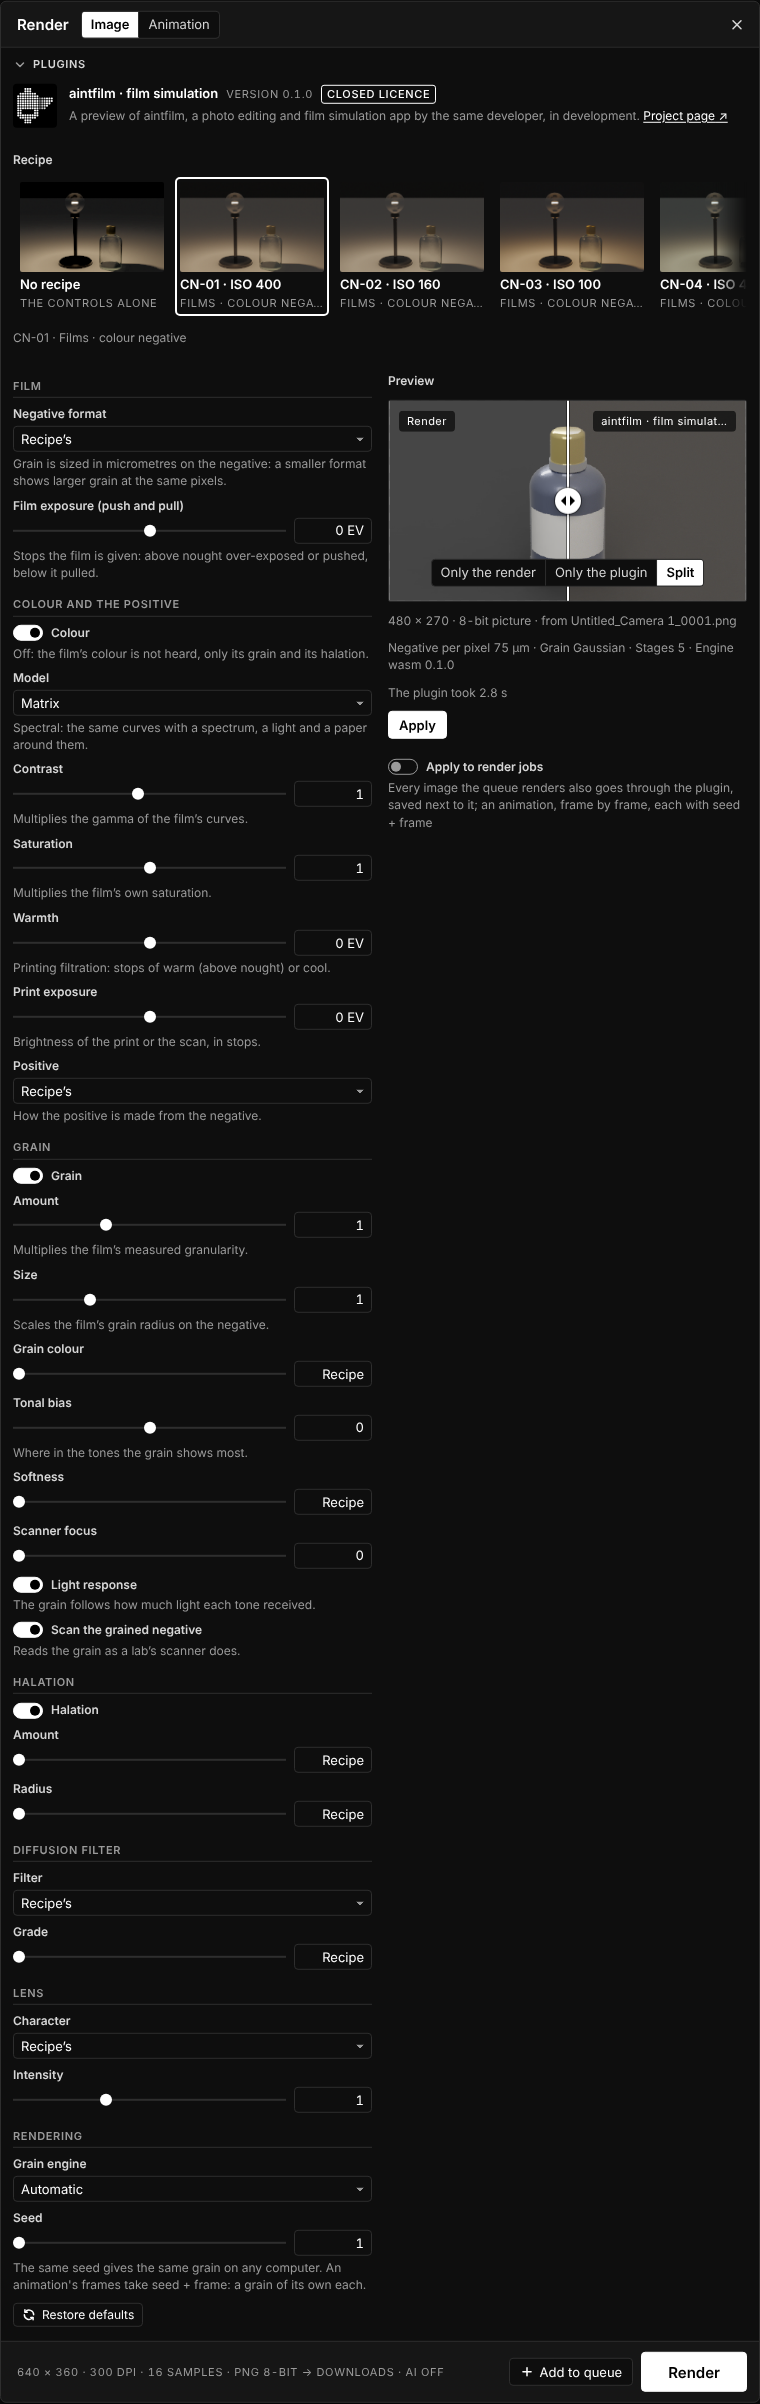
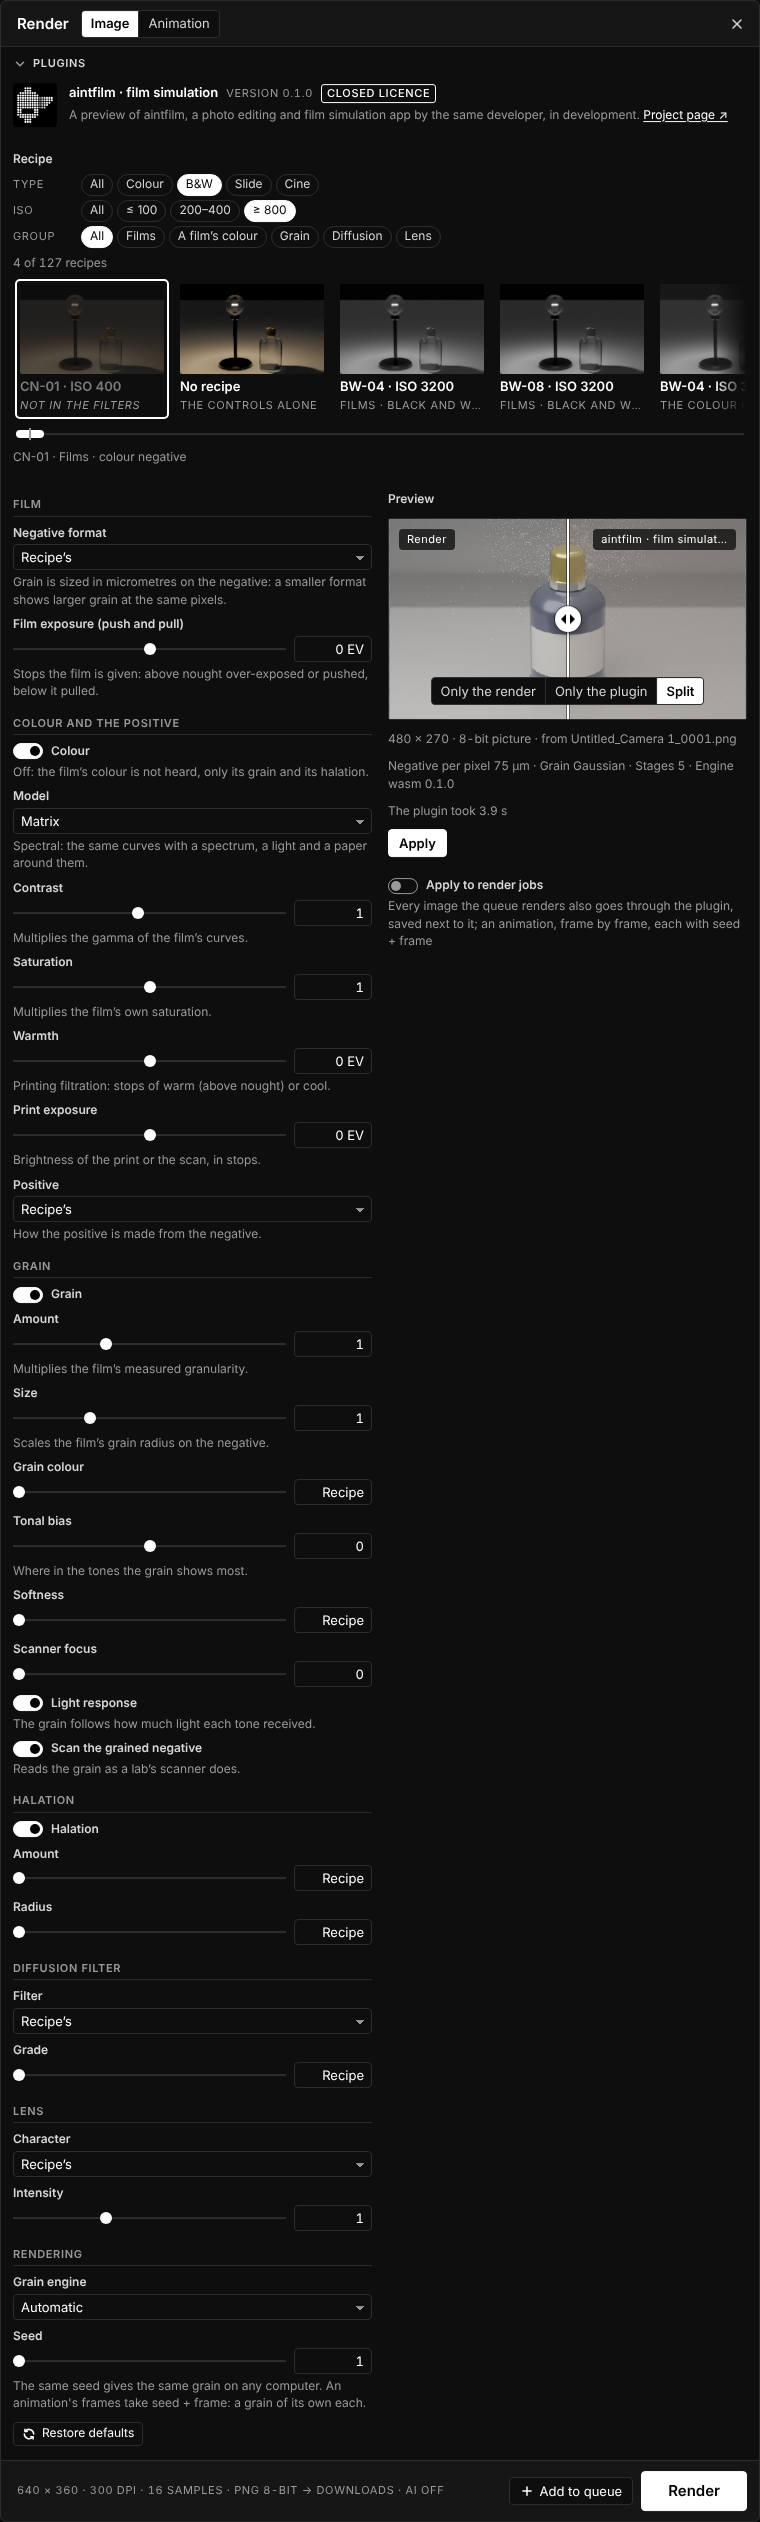
P6b: the film package rebuilt with its filters, the registry pinned to it, the docs and the screenshots
film-0.1.0.rpk, 1956072 bytes, sha256 a60dd9edea828f4ed29acd3d29b9ab1ffde384284da8c6a6a6619cc1d6ba3d8a,
under the activation key kept outside the repository. UI.md, ARCHITECTURE.md
section 9.4, the changelog and the P6b addendum in the ROADMAP's P6 paragraph.

Claude-Session: https://claude.ai/code/session_01Vyw8CoEN48cqBKpA2hjydX

diff --git a/docs/ROADMAP.md b/docs/ROADMAP.md
@@ -6355,6 +6355,37 @@ no tiene test en Node (no hay IndexedDB en los tests): la comprobación de
 navegador ve que guarda y devuelve (`d2_film_cards_kept`); que *Quitar* las
 borre solo lo comprueban los tests sobre el almacén en memoria.
 
+**P6b** (2026-10-14, petición del usuario: el carrusel como la búsqueda de
+películas de la app de aintfilm). **Hecho**: un deslizador fino bajo el
+carrusel, de su ancho, atado a su desplazamiento en los dos sentidos (sus pasos
+son las posiciones de ajuste del carrusel, una por tarjeta y la última su final:
+`ui/strip-math.ts`), con la tarjeta elegida marcada en su pista y manejable con
+el teclado; y los filtros, que el plugin declara en su respuesta `presets`
+(`filters` y los `tags` de cada receta) y el anfitrión dibuja como filas de
+*chips* sobre el carrusel, combinados (Y), con la cuenta (*23 de 127 recetas*),
+la receta elegida primera y marcada *Fuera de los filtros* cuando la dejan
+fuera, y guardados con los ajustes del plugin (`filters`, deshacibles). El de
+película trae los de la app (`docs/MANUAL.md` §7 y `src/lib/filmFilter.ts` de
+aintfilm): **Tipo** (sus palabras: *COLOR* para el negativo en color, *B&W*,
+*DIAPOSITIVA*, *CINE*, por la clase de cada película) e **ISO** (sus tres
+bandas, *≤ 100 · 200–400 · ≥ 800*, cortadas en 100 y 400 por la ISO de caja),
+más **Grupo** (películas, el color de una película, grano, difusión, objetivo:
+los grupos del paquete). Paquete reconstruido con la misma clave: 1 956 072
+bytes, `sha256`
[1 lines of base64/hex data omitted]
+0.1.0 (no publicado aún). Tests: 9 nuevos (`plugins-filters`, y uno en
+`plugins-film`), 15 mutaciones comprobadas; la comprobación de navegador
+arrastra el deslizador, lo mueve con la rueda y con el teclado, y aplica dos
+filtros (`f_scrub_slider`, `f_two_filters`). **No encajó.** (1) La app tiene un
+tercer filtro, **MARCA**, y no está: son nombres de fabricantes (su D112); el
+cuarto, **ORIGEN** (de la app, mías, de otros), aquí solo tendría uno. No hay
+más facetas en la app (formato, proceso, época): no se inventaron. (2) *Color /
+B&W* es el **Tipo** de la app, con sus cuatro valores: la diapositiva y el cine
+también son de color, y la app los separa así. (3) La app dibuja sus filtros
+como desplegables en una fila (M31-03); aquí son *chips*, como se pidió. (4) Una
+receta sin película (grano, filtro, objetivo) no tiene Tipo ni ISO: solo está en
+sus *Todos*, la regla de la app.
+
 ## Orden sugerido
 
 1. **U1** (Opus) y **E1** (Sonnet), en paralelo: la interfaz y el

diff --git a/docs/UI.md b/docs/UI.md
@@ -1041,8 +1041,28 @@ trabajar).
   rayado gris (*Se está haciendo su imagen*). Se hacen **una vez** en este
   equipo (IndexedDB, por versión del plugin y receta), de una en una y solo
   cuando no hay una vista previa esperando; mientras, *Imágenes de las recetas
-  12 de 128, hechas una vez en este equipo*. Debajo del carrusel, la elegida
-  con su categoría (*CN-01 · Películas · negativo en color*). A la
+  12 de 128, hechas una vez en este equipo*. **Encima del carrusel, sus
+  filtros** (P6b), los del plugin, como los de la búsqueda de películas de la
+  app de aintfilm: una fila de *chips* por filtro, con su nombre, **Todos** y
+  sus valores (para el de película: **Tipo** —*Color* (negativo en color),
+  *B&W*, *Diapositiva*, *Cine*—, **ISO** en las tres bandas de la app —*≤ 100*,
+  *200–400*, *≥ 800*, cortadas en 100 y 400— y **Grupo** —*Películas*, *Color de
+  una película*, *Grano*, *Difusión*, *Objetivo*—; la fila de marcas de la app no
+  está: son nombres de fabricantes). Un filtro elige un valor (o *Todos*); los
+  filtros se combinan (todos a la vez) y una receta que no dice nada de uno (un
+  grano no tiene ISO) solo está en su *Todos*. Debajo, la cuenta: *23 de 127
+  recetas* (*Ninguna de las 127 recetas coincide con estos filtros*). La receta
+  elegida sigue elegida aunque los filtros la dejen fuera: su tarjeta va
+  **primera**, atenuada, con *Fuera de los filtros* en lugar de su categoría;
+  *Sin receta* va siempre. Cada filtro es una acción del *store*, deshacible, y
+  se guarda con los ajustes del plugin (`filters`); cambiarlo no rehace la
+  vista previa. **Debajo del carrusel, un deslizador** fino de su mismo ancho
+  para recorrer las recetas, atado al desplazamiento en los dos sentidos:
+  arrastrarlo desplaza el carrusel tarjeta a tarjeta (al soltarlo se ajusta a
+  la tarjeta) y desplazar el carrusel lo mueve; una marca en su pista dice
+  dónde está la tarjeta elegida; se enfoca con el teclado y ← → mueven una
+  tarjeta (*Recorrer las recetas*); sin nada que desplazar, no se ve. Debajo,
+  la elegida con su categoría (*CN-01 · Películas · negativo en color*). A la
   izquierda, **los mandos del manifiesto** por grupos, cada grupo con
   su título: deslizador con su campo numérico (y su unidad; un deslizador con
   `minLabel` dice *Receta* en su tope izquierdo: ahí el plugin conserva el

diff --git a/docs/CHANGELOG.md b/docs/CHANGELOG.md
@@ -30,6 +30,7 @@ fase del roadmap (`ROADMAP.md`) de donde sale cada línea.
 - **El primer plugin: aintfilm · simulación de película** (P6): el motor de película de aintfilm, la app de edición de fotos y simulación de película del mismo desarrollador, en desarrollo (un adelanto): 51 películas, su color solo, 8 granos, 13 filtros de difusión y 4 caracteres de objetivo, con sus nombres públicos; los mandos de su editor de recetas (formato del negativo, exposición y forzado, color, contraste, saturación, calidez, copia o escaneo, grano, halación, difusión, objetivo, motor de grano, semilla). Un EXR entra como luz lineal, sin pasar por 8 bits. Licencia cerrada; se descarga como *asset* de la release v0.1.6 (P6).
 - El paquete `.rpk` (P6): cabecera en claro y contenido cifrado con AES-256-GCM; se guarda cifrado en este equipo con su clave aparte y solo se descifra en memoria. `tools/plugin-pack.mjs` empaqueta un plugin (P6).
 - **Las recetas, un carrusel** (P6): una tarjeta por receta con su imagen —la escena de prueba del plugin (para el de película, un frasco de perfume junto a una lámpara encendida en un cuarto oscuro) por esa receta—, su nombre y su categoría; se desplaza de lado con la rueda y se elige con las flechas. Las imágenes se hacen una vez en cada equipo. Antes del primer render, la vista previa enseña esa escena de prueba (P6).
+- **Filtros y deslizador en el carrusel de recetas** (P6b), como en la búsqueda de películas de la app de aintfilm: *chips* de **Tipo** (color, B&W, diapositiva, cine), **ISO** (≤ 100 · 200–400 · ≥ 800) y **Grupo** (películas, el color de una película, grano, difusión, objetivo), que se combinan, con la cuenta (*23 de 127 recetas*); la receta elegida sigue a la vista, primera y marcada, aunque los filtros la dejen fuera, y los filtros se guardan con el proyecto. Debajo del carrusel, un deslizador para recorrer las recetas, atado a su desplazamiento, con la elegida marcada (P6b).
 - **Aplicar a los trabajos de render** (P6): un plugin puede pasar también cada imagen que renderiza la cola; en una animación, cada fotograma con su semilla (*semilla + fotograma*), así que el grano de la película cambia de fotograma en fotograma como en una película de verdad (P6).
 - El logo del plugin de película es el del dueño: el cartucho de 35 mm en puntos, con la lengüeta en tres grises (P6).
 

diff --git a/docs/ARCHITECTURE.md b/docs/ARCHITECTURE.md
@@ -1506,7 +1506,7 @@ Solo mensajes (`src/plugins/abi.ts`):
 | --- | --- | --- |
 | anfitrión → plugin | `init { abi, manifest, files, wasm }` (una vez, primero; *buffers* transferidos) | `ready { abi }` |
 | anfitrión → plugin | `info { id }` | `info { id, info: { name, version, engine? } }` |
-| anfitrión → plugin | `presets { id }` | `presets { id, presets: [{ id, name, category, aux? }], categories: [{ id, label }] }` |
+| anfitrión → plugin | `presets { id }` | `presets { id, presets: [{ id, name, category, aux?, tags? }], categories: [{ id, label }], filters? }` |
 | anfitrión → plugin | `render { id, width, height, pixels, recipe, controls }` | `render { id, width, height, rgba8, info: { items } }` |
 | anfitrión → plugin | `cancel { id }` | `cancelled { id }` si no había empezado |
 | plugin → anfitrión | `error { id, message }` (`id` nulo: el plugin mismo) | — |
@@ -1518,7 +1518,15 @@ recto); el anfitrión manda los planos cuando el resultado es un EXR (su luz,
 sin pasar por 8 bits; el alfa sale de su imagen de pantalla) y RGBA8 en otro
 caso, y vuelve a poner el alfa del origen sobre la respuesta. `info.items` son
 `{ key, label (es/en), value, unit? }`: el anfitrión los pinta tal cual y no
-calcula ninguno (regla 10); el tiempo lo mide él alrededor del render. Una
+calcula ninguno (regla 10); el tiempo lo mide él alrededor del render.
+`filters` (P6b) son los filtros de recetas que ofrece el plugin, `[{ id, label,
+options: [{ value, label }] }]`, y `tags` los valores de cada receta para ellos
+(`{ [id del filtro]: valor }`); `cleanPresets` solo deja los de filtros y valores
+ofrecidos. El anfitrión los dibuja y los aplica sin saber qué son
+(`activeFilters`, `presetMatches`, `filterPresets` de `src/core/plugins.ts`: se
+combinan, una receta sin el *tag* de un filtro solo está en su *Todos*, la
+elegida se conserva) y guarda los elegidos en `RenderSettings.plugins[id].filters`;
+el deslizador del carrusel es aritmética en `ui/strip-math.ts`. Una
 vista previa cancelada que llega tarde se descarta.
 
 ### 9.5 · El plugin de película (aintfilm)
